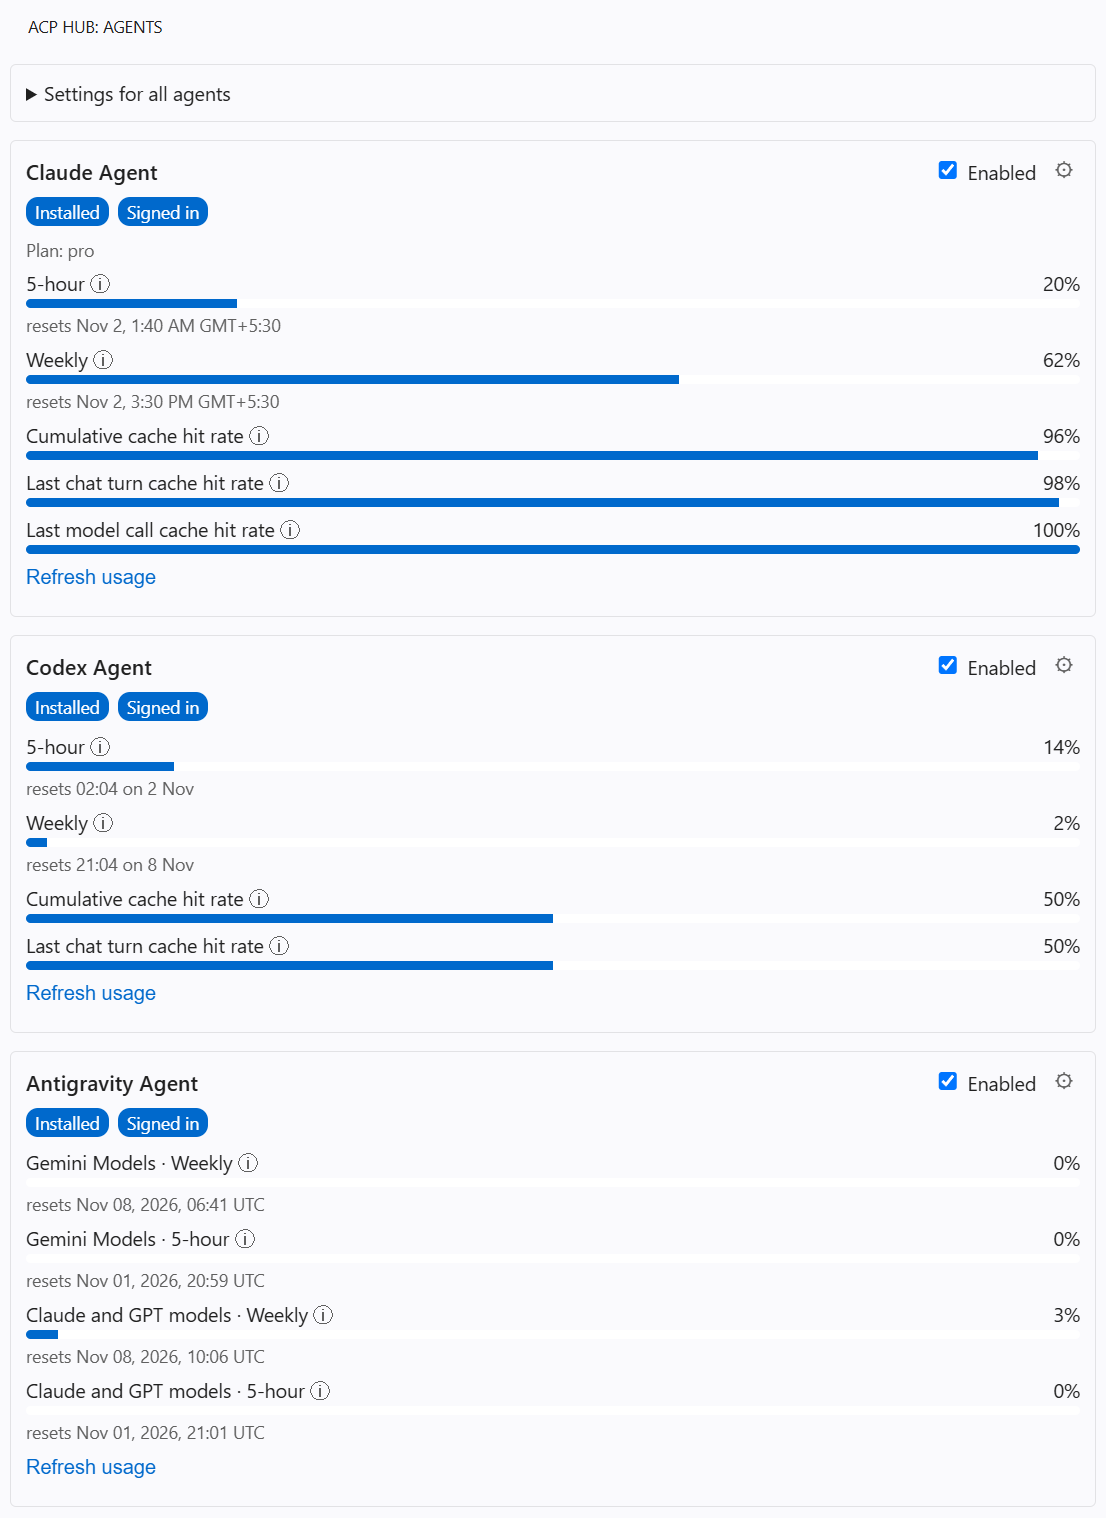
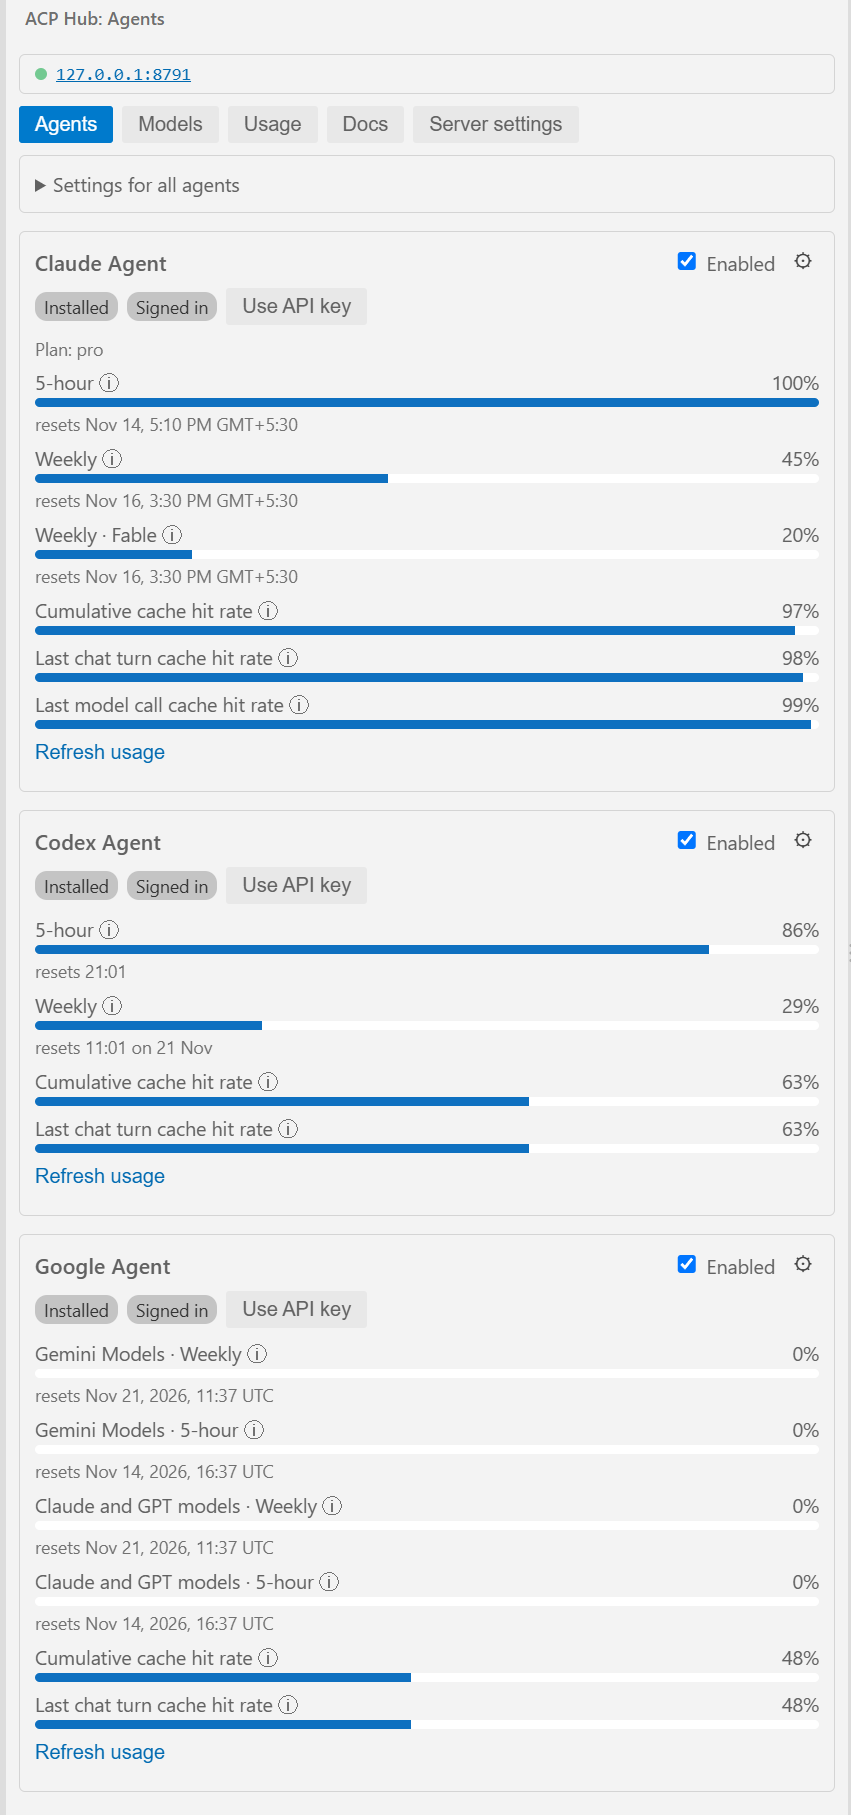
chore(release): 1.0.1
New screenshot of the sidebar in the README. Nothing else changed.

diff --git a/CHANGELOG.md b/CHANGELOG.md
@@ -1,5 +1,9 @@
 # Changelog
 
+## 1.0.1
+
+- New screenshot of the sidebar in the README. Nothing else changed.
+
 ## 1.0.0
 
 This release moves the agents out of the extension host into one local ACP Hub server that every window, a browser page and any OpenAI-compatible client share. The extension is a client of that server's API again, the control page shows and sets the server it runs from, and the sidebar draws that same page. The list below is everything that changed since 0.0.6.
